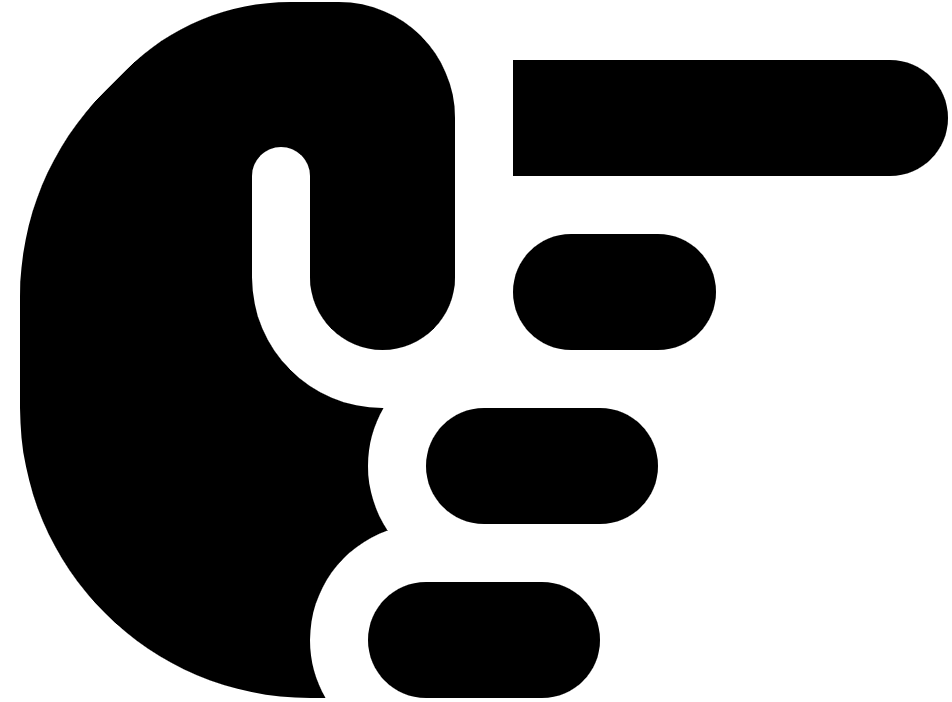
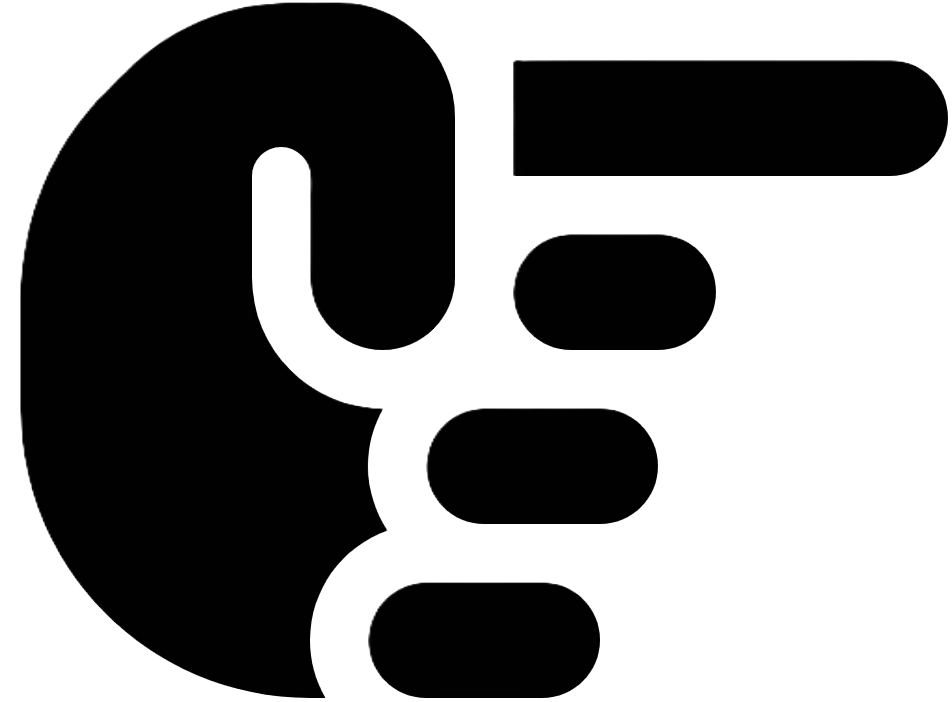
0.103

diff --git a/docs/index.html b/docs/index.html
@@ -460,7 +460,7 @@ ul.task-list li input[type="checkbox"] {
 
 <div class="quarto-figure quarto-figure-left">
 <figure class="figure">
-<p><img src="img/pic1.jpg" class="img-fluid quarto-figure quarto-figure-left figure-img" style="float: left; margin-right: 20px;" width="350"></p>
+<p><img src="img/pic1.png" class="img-fluid quarto-figure quarto-figure-left figure-img" style="float: left; margin-right: 20px;" width="200"></p>
 </figure>
 </div>
 <p>Imagine having (almost) all types of data visualization tools and techniques seamlessly brought together in one place, creating a comprehensive and unified platform for unlocking insights from your data. This consolidated <strong>open access</strong> hub allows users to employ diverse visualization methods, from statistical plots to cartograms.</p>
